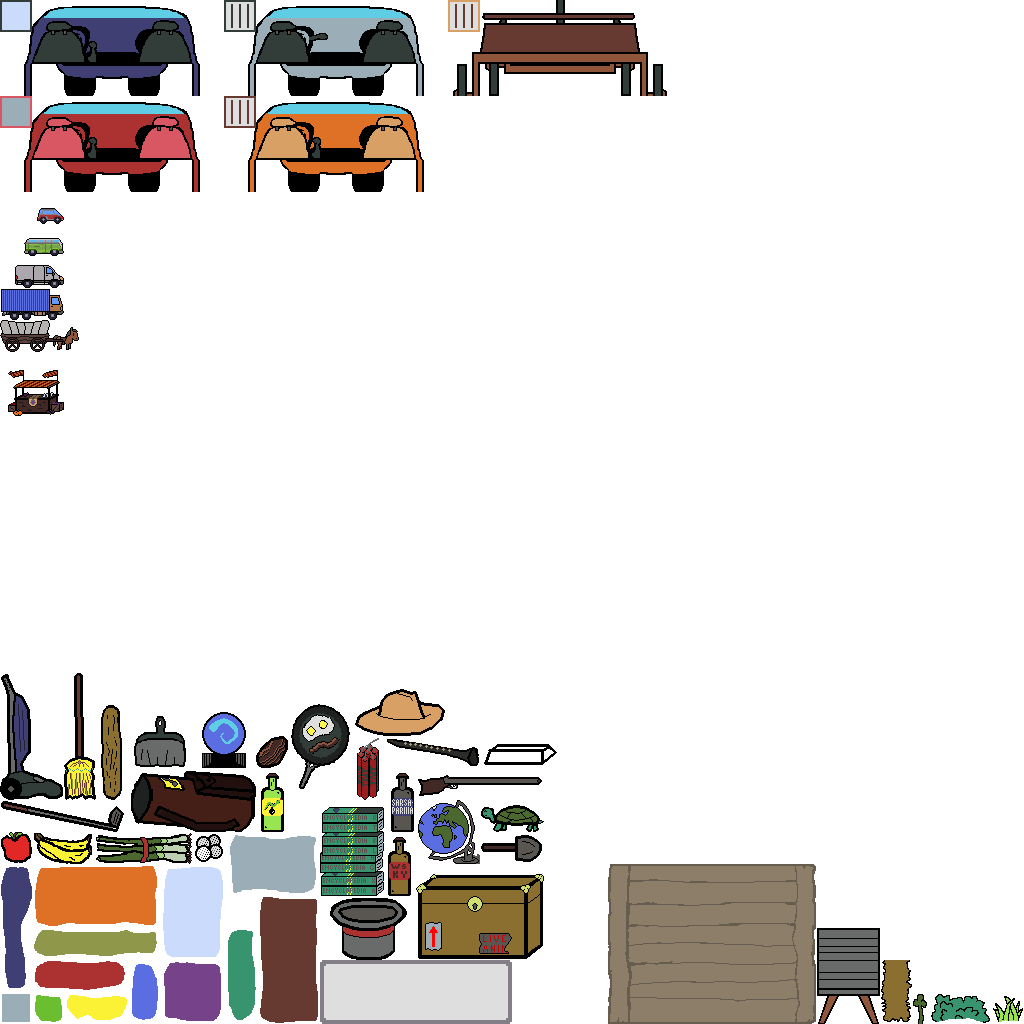
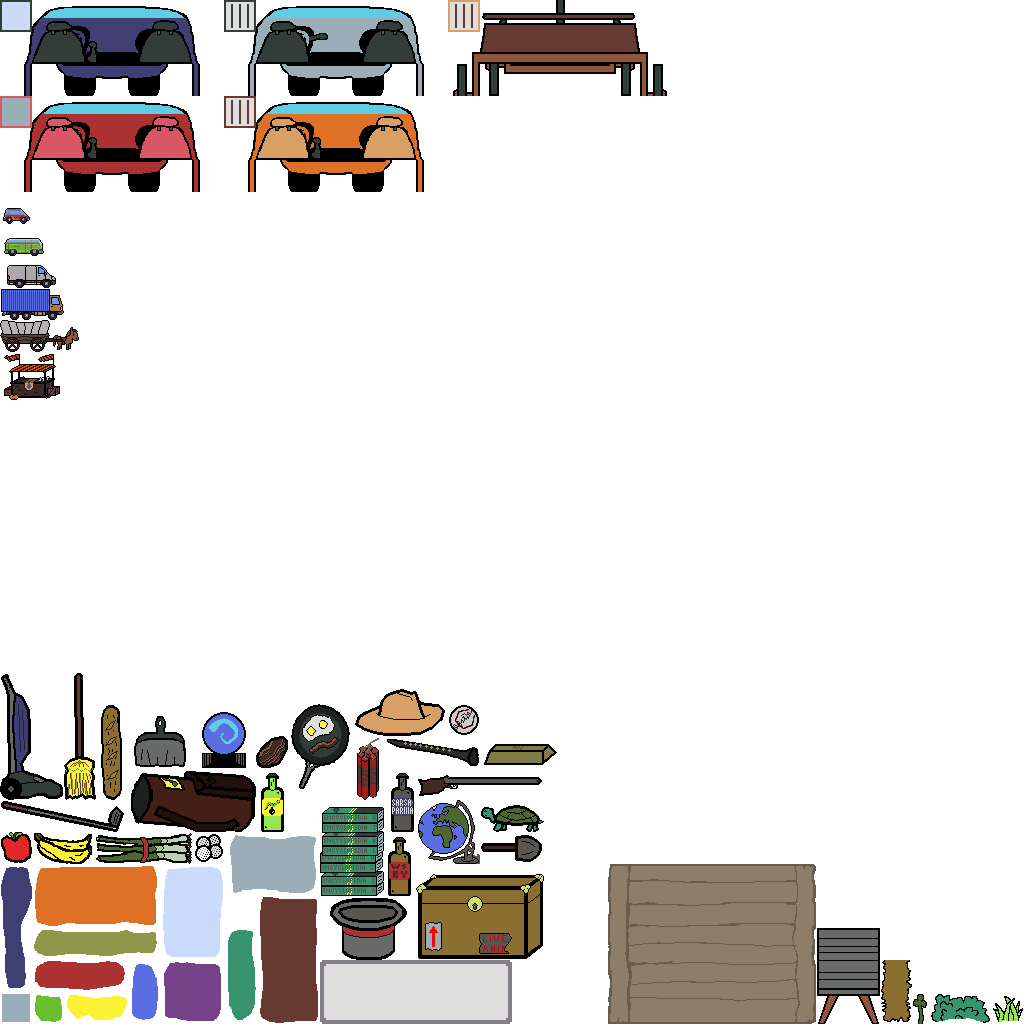
Smart Car Sprite import

diff --git a/internal/data/wares.go b/internal/data/wares.go
@@ -299,6 +299,12 @@ var (
 			SpriteKey: constants.Turtle,
 			Value:     35 + constants.GlobalSeededRandom.Intn(50),
 			Active:    true,
+		}, {
+			Name:      "Toy Smart Car",
+			ShapeKey:  constants.SizeOnebyOne,
+			SpriteKey: constants.SmartTiny,
+			Value:     35 + constants.GlobalSeededRandom.Intn(50),
+			Active:    true,
 		},
 	}
 )

diff --git a/internal/constants/sprites.go b/internal/constants/sprites.go
@@ -42,4 +42,10 @@ const (
 	Rifle           = "rifle"
 	Claranet        = "claranet"
 	CowboyHat       = "cowboy hat"
+	SmartTiny       = "smart_tiny"
+	MiniTiny        = "mini_tiny"
+	CargoTiny       = "cargo_tiny"
+	BoxTiny         = "box_tiny"
+	WagonTiny       = "wagon_tiny"
+	MarketStandTiny = "marketstand_tiny"
 )
